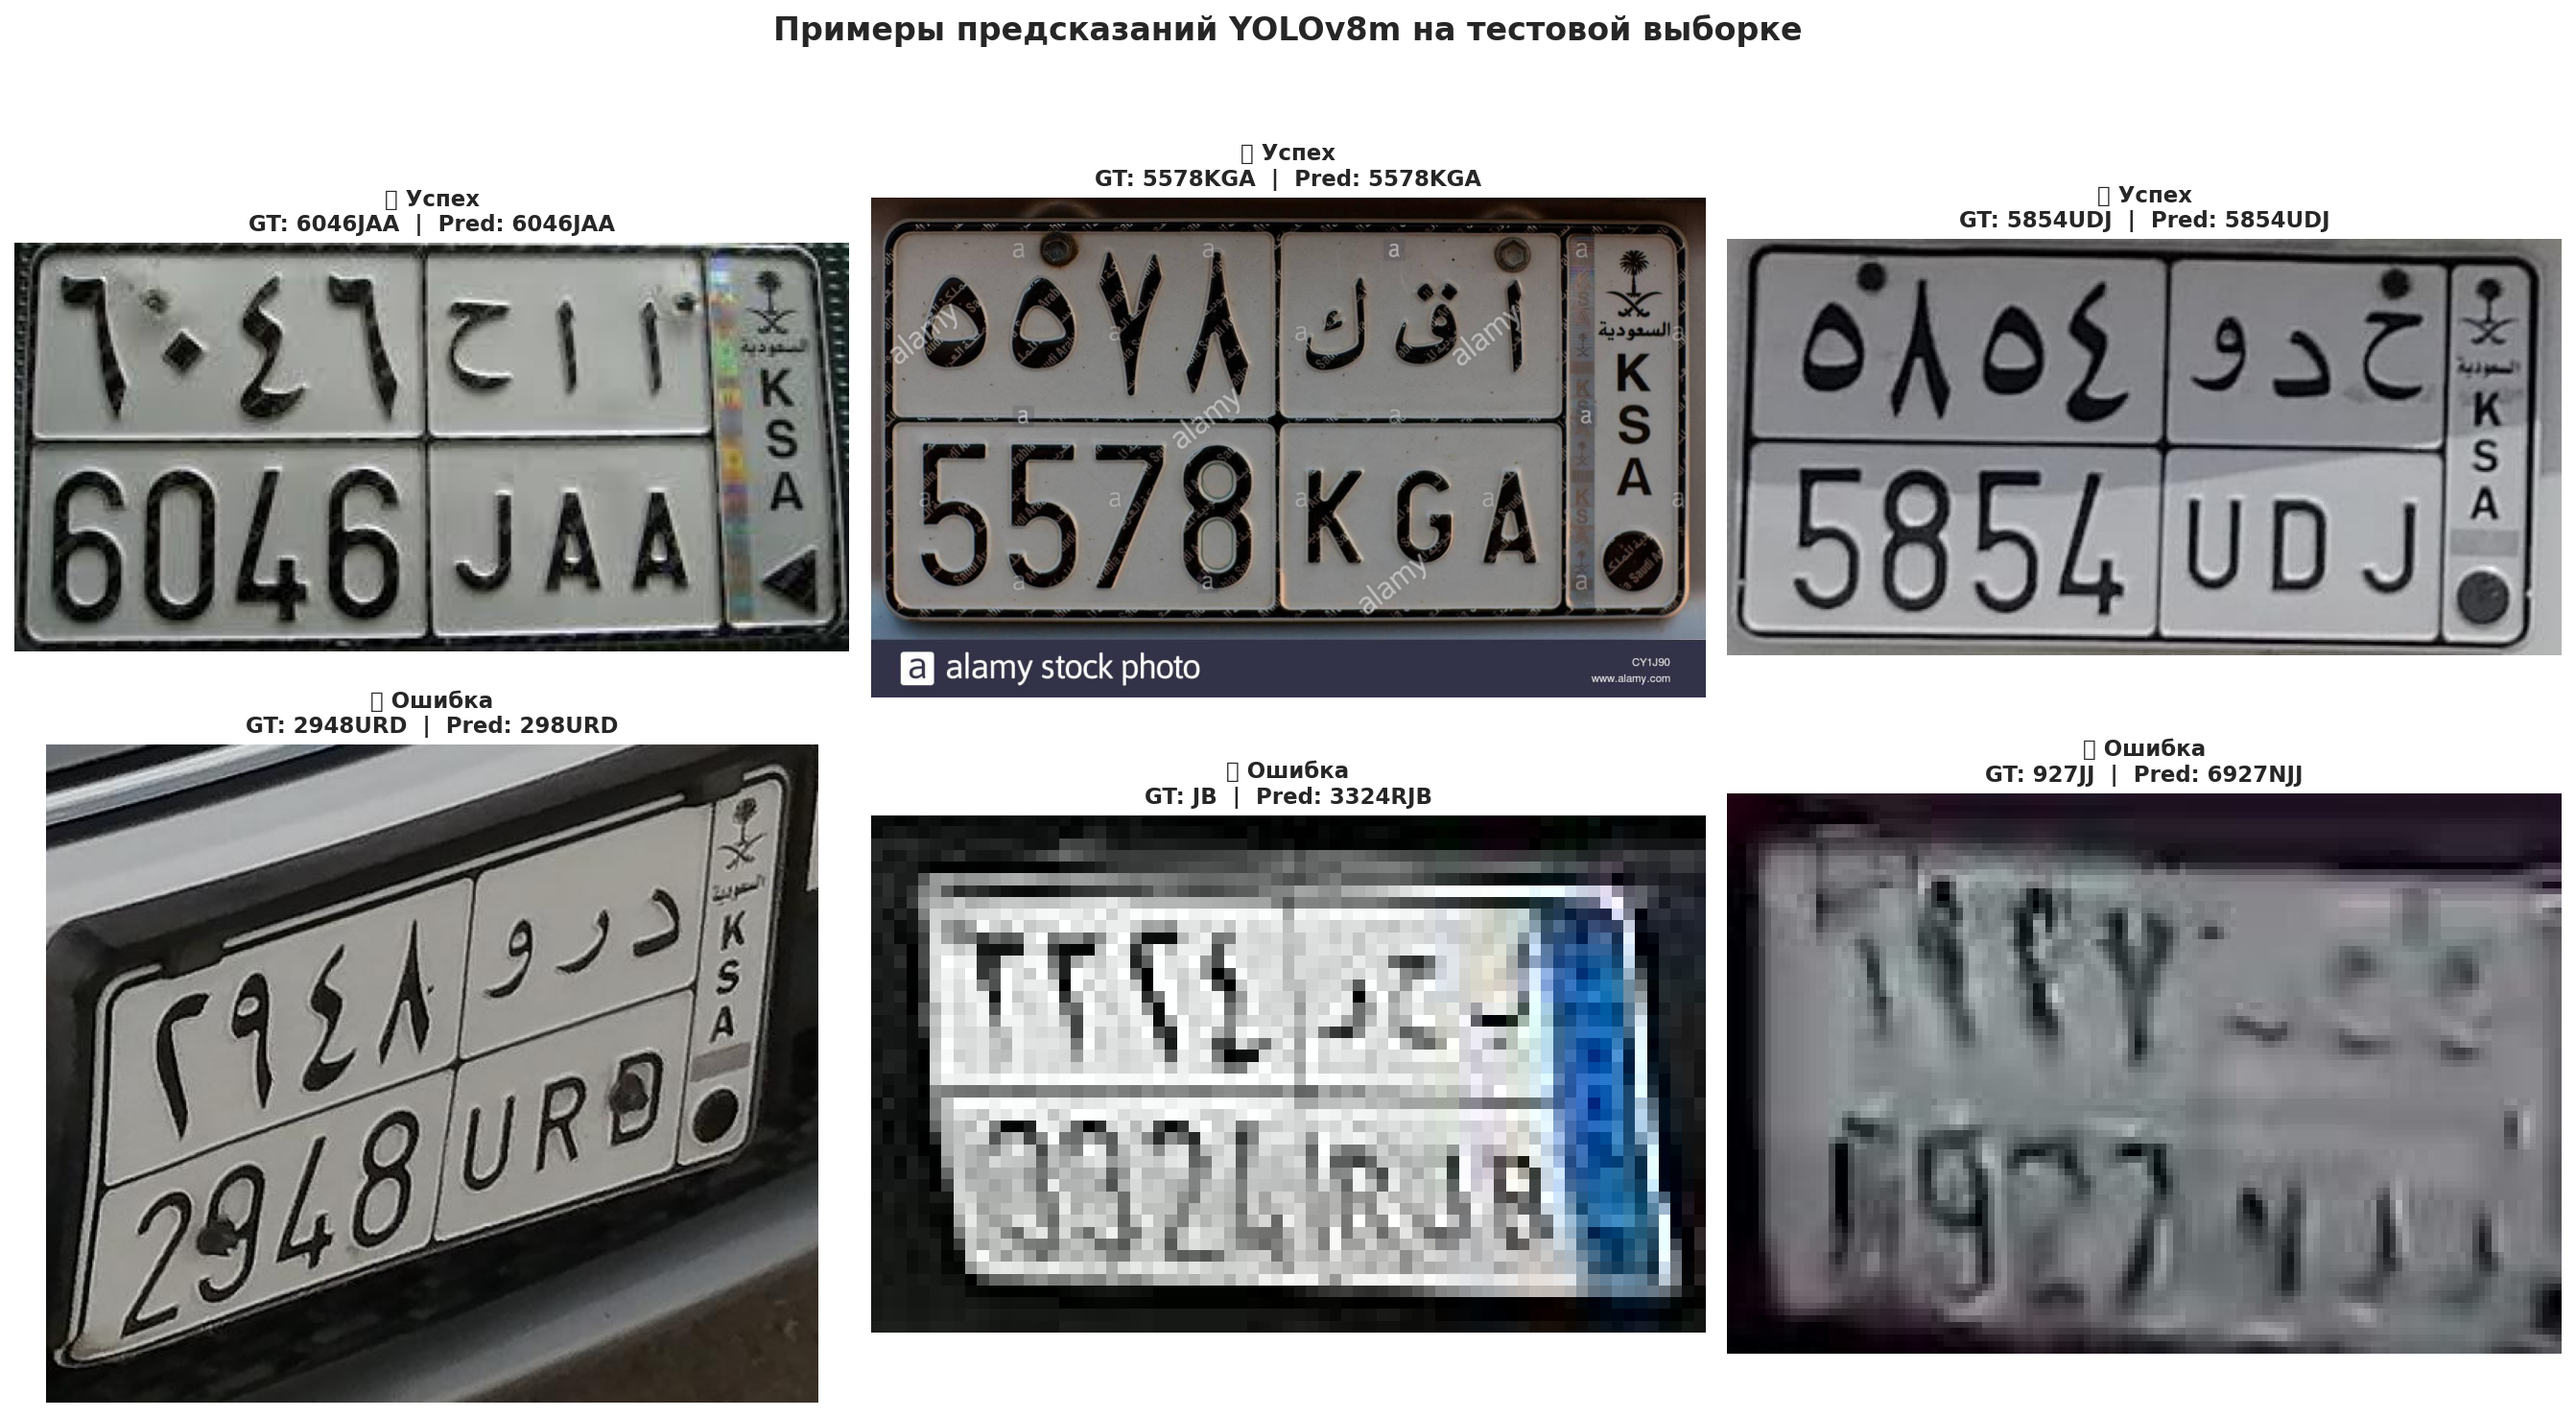
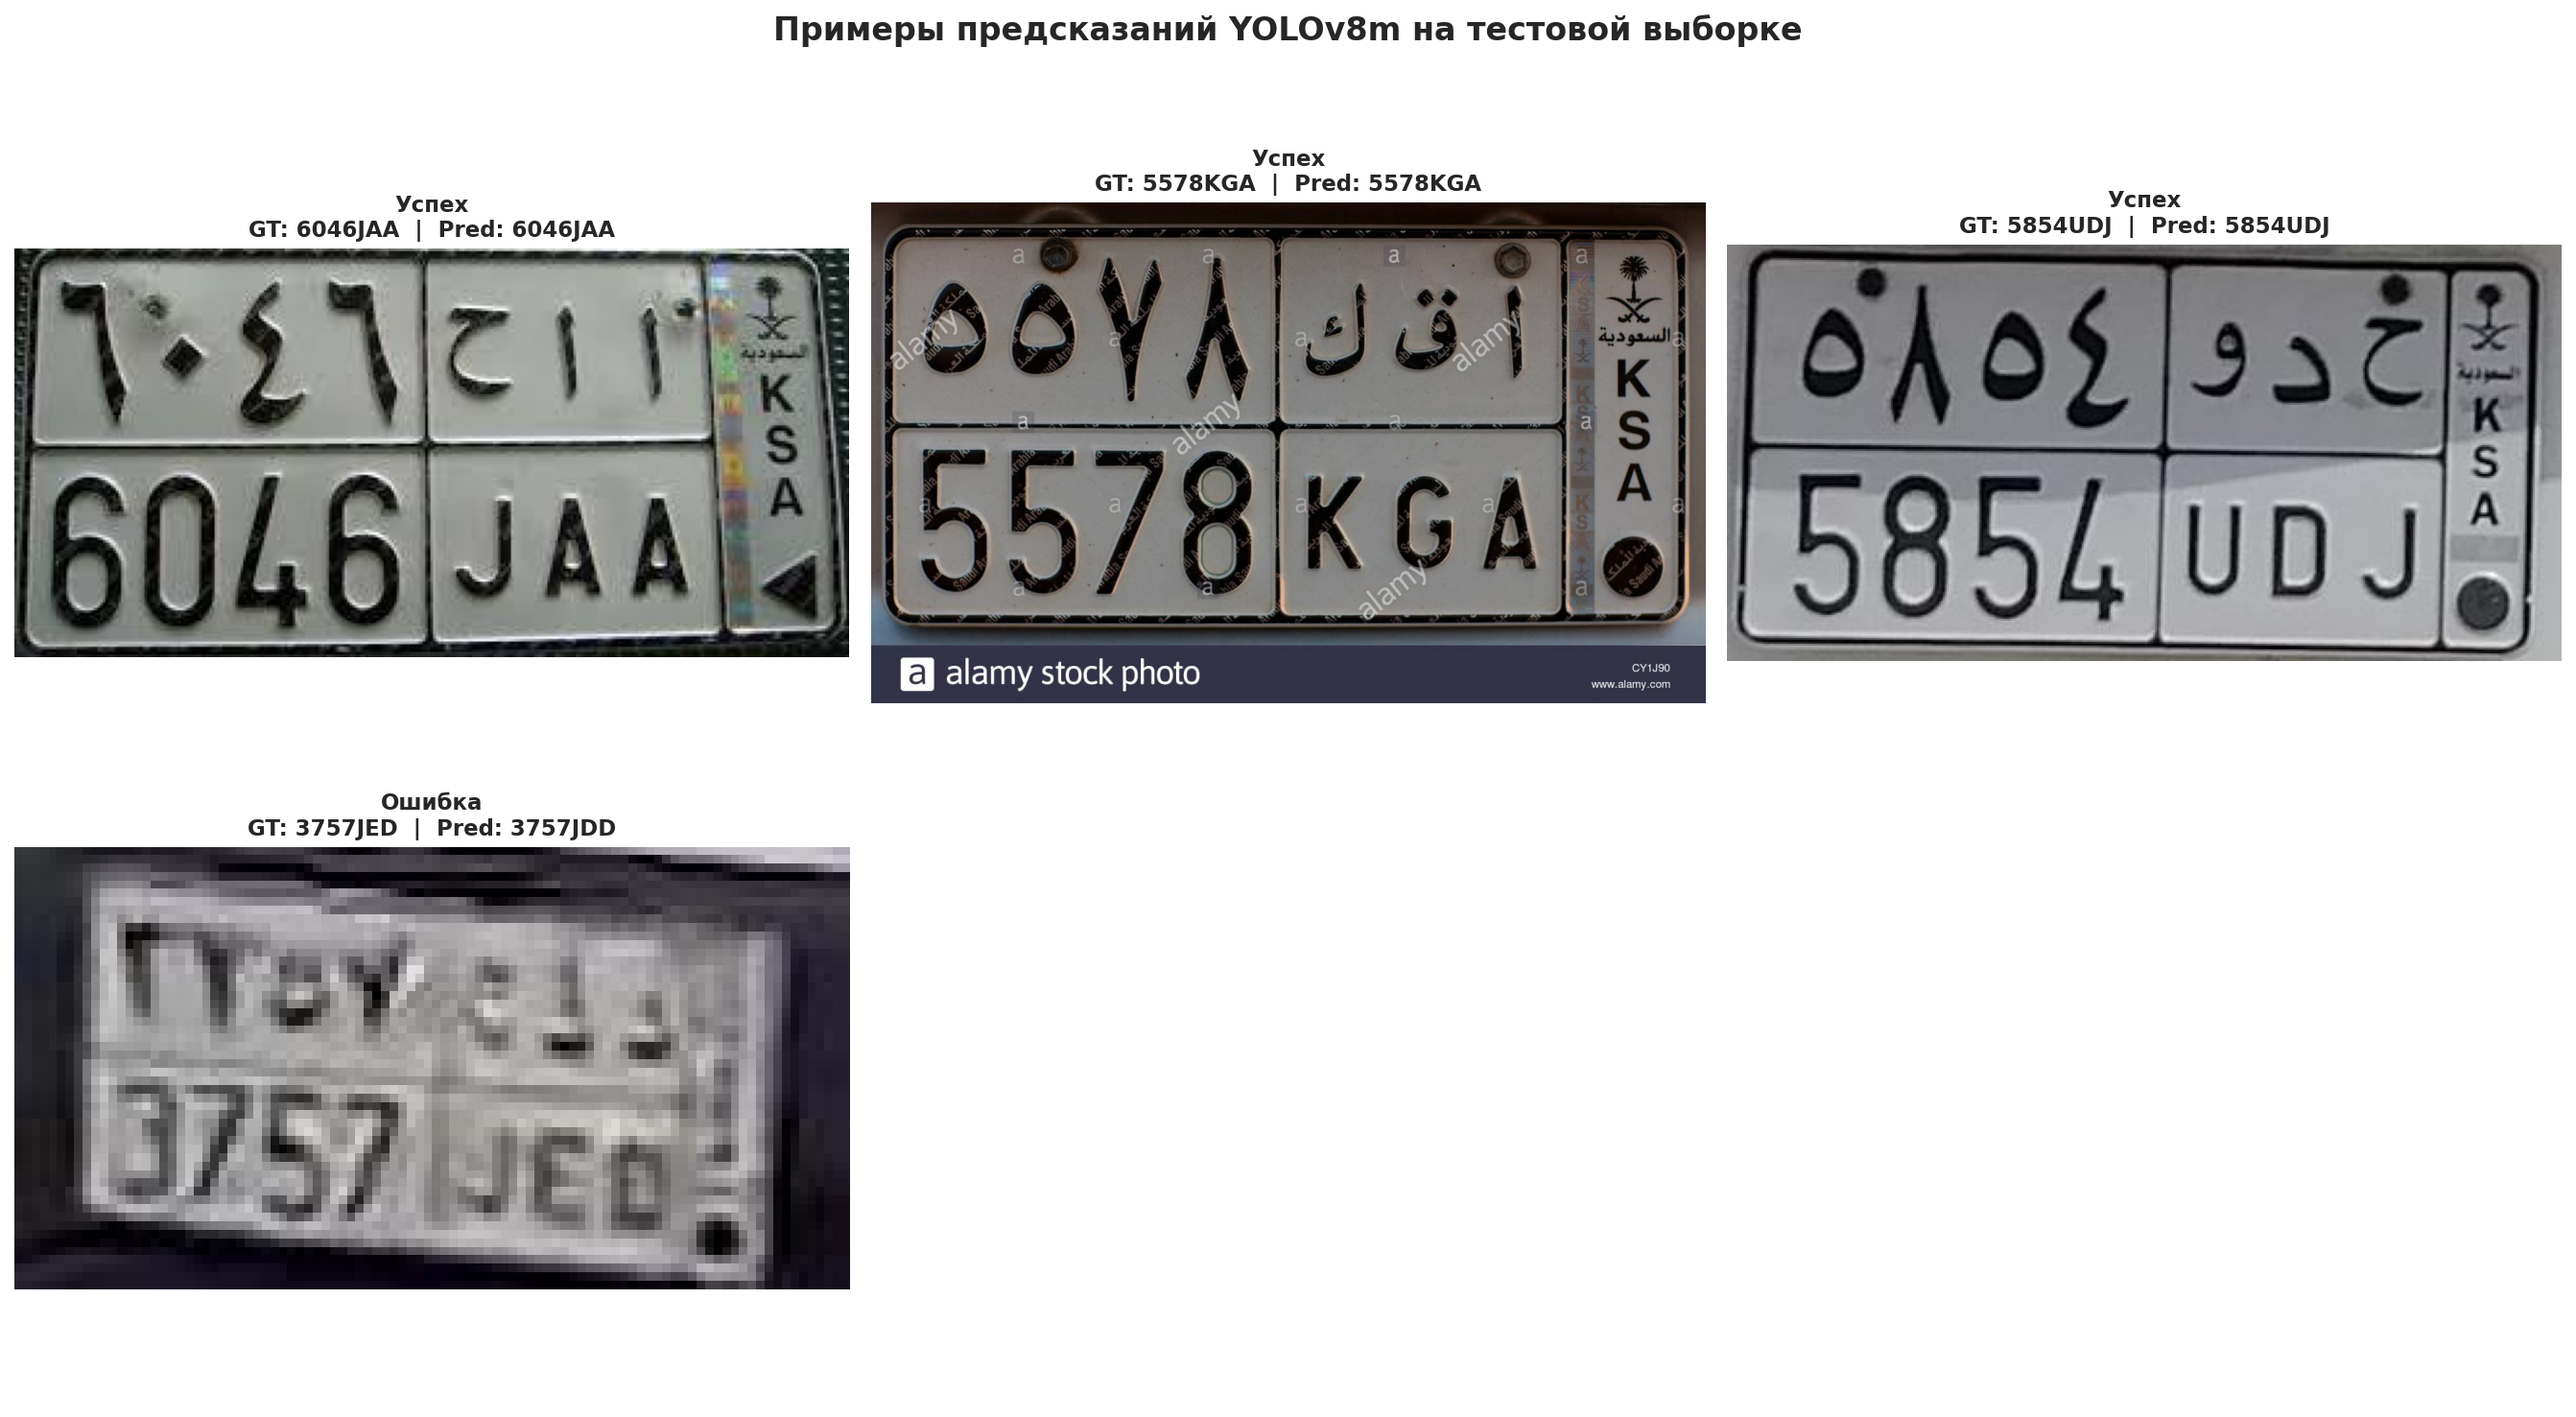
Add YOLOv8m results on the new pipeline to README and REPORT

diff --git a/generate_report.py b/generate_report.py
@@ -27,7 +27,7 @@ print("=" * 60)
 # ============================================================
 # 1. ГРАФИКИ ОБУЧЕНИЯ YOLOv8s (первая модель)
 # ============================================================
-print("\n📈 1/5: Кривые обучения YOLOv8s...")
+print("\n📈 1/4: Кривые обучения YOLOv8s...")
 
 results_path_1 = Path("runs/detect/runs/yolo/plates_detector/results.csv")
 if results_path_1.exists():
@@ -75,7 +75,7 @@ else:
 # ============================================================
 # 2. ГРАФИКИ ОБУЧЕНИЯ YOLOv8m (аугментированные данные)
 # ============================================================
-print("\n📈 2/5: Кривые обучения YOLOv8m на аугментированных данных...")
+print("\n📈 2/4: Кривые обучения YOLOv8m на аугментированных данных...")
 
 results_path_2 = Path("runs/yolo_aug/plates_detector_m/results.csv")
 if results_path_2.exists():
@@ -118,7 +118,7 @@ if results_path_2.exists():
 # ============================================================
 # 3. ГРАФИКИ ОБУЧЕНИЯ FCOS (кастомная архитектура)
 # ============================================================
-print("\n📈 3/5: Кривые обучения FCOS...")
+print("\n📈 3/4: Кривые обучения FCOS...")
 
 fcos_history = Path("weights/history.json")
 if fcos_history.exists():
@@ -145,7 +145,7 @@ else:
 # ============================================================
 # 4. ПРИМЕРЫ ПРЕДСКАЗАНИЙ YOLOv8m (успехи и ошибки)
 # ============================================================
-print("\n🖼  4/5: Примеры предсказаний YOLOv8m...")
+print("\n🖼  4/4: Примеры предсказаний YOLOv8m...")
 
 model = YOLO("runs/yolo_aug/plates_detector_m/weights/best.pt")
 test_dir = Path("yolo_dataset_augmented/images/test")
@@ -166,8 +166,11 @@ for row in rows:
 
 # Рисуем 3 успеха и 3 ошибки
 fig, axes = plt.subplots(2, 3, figsize=(18, 10))
+# Ошибок может быть меньше трёх - пустые ячейки не рисуем
+for ax in axes.flat:
+    ax.axis('off')
 
-for row, examples, title_prefix in [(0, success_examples[:3], "✅ Успех"), (1, fail_examples[:3], "❌ Ошибка")]:
+for row, examples, title_prefix in [(0, success_examples[:3], "Успех"), (1, fail_examples[:3], "Ошибка")]:
     for col, ex in enumerate(examples):
         import matplotlib.image as mpimg
 
@@ -176,56 +179,12 @@ for row, examples, title_prefix in [(0, success_examples[:3], "✅ Успех"),
         axes[row, col].set_title(
             f"{title_prefix}\nGT: {ex['gt']}  |  Pred: {ex['pred']}", fontsize=11, fontweight='bold'
         )
-        axes[row, col].axis('off')
 
 plt.suptitle('Примеры предсказаний YOLOv8m на тестовой выборке', fontsize=16, fontweight='bold', y=0.98)
 plt.tight_layout(rect=[0, 0, 1, 0.96])
 plt.savefig(REPORT_DIR / "06_prediction_examples.png", dpi=150, bbox_inches='tight')
 plt.close()
 print(f"   ✅ Сохранено: {REPORT_DIR / '06_prediction_examples.png'}")
-
-# ============================================================
-# 5. АНАЛИЗ ОШИБОК (ТИПЫ ОШИБОК)
-# ============================================================
-print("\n🔍 5/5: Анализ типов ошибок...")
-
-error_types = {'Пропуск символа': 0, 'Лишний символ (фантом)': 0, 'Подстановка символа': 0, 'Правильно': 0}
-
-for ex in fail_examples:
-    gt, pred = ex['gt'], ex['pred']
-    # Простая эвристика классификации ошибки
-    if len(pred) < len(gt):
-        error_types['Пропуск символа'] += 1
-    elif len(pred) > len(gt):
-        error_types['Лишний символ (фантом)'] += 1
-    else:
-        error_types['Подстановка символа'] += 1
-
-error_types['Правильно'] = len(success_examples)
-
-fig, ax = plt.subplots(figsize=(10, 6))
-colors = ['#27ae60', '#e74c3c', '#f39c12', '#9b59b6']
-wedges, texts, autotexts = ax.pie(
-    error_types.values(),
-    labels=error_types.keys(),
-    autopct='%1.1f%%',
-    colors=colors,
-    startangle=90,
-    textprops={'fontsize': 11},
-)
-for autotext in autotexts:
-    autotext.set_fontweight('bold')
-    autotext.set_color('white')
-
-plt.title(
-    f'Распределение результатов на тестовой выборке ({len(success_examples) + len(fail_examples)} изображений)\n'
-    f'Всего: {len(success_examples)} правильно, {len(fail_examples)} ошибок',
-    fontsize=14,
-    fontweight='bold',
-)
-plt.savefig(REPORT_DIR / "07_error_analysis.png", dpi=150, bbox_inches='tight')
-plt.close()
-print(f"   ✅ Сохранено: {REPORT_DIR / '07_error_analysis.png'}")
 
 # ============================================================
 # ФИНАЛЬНАЯ СВОДКА

diff --git a/README.md b/README.md
@@ -2,7 +2,18 @@
 
 Пайплайн для детекции и распознавания символов саудовских номерных знаков. В ходе исследования была разработана кастомная архитектура FCOS, а как основная модель используется YOLOv8.
 
-**Статус:** пайплайн данных, обучения и оценки исправлен; модели по новому пайплайну ещё не переобучены, поэтому актуальных метрик пока нет.
+## Результаты
+
+YOLOv8m по новому пайплайну (`configs/yolo_train.yaml`, early stopping на 91-й эпохе, лучшая - 66-я), порог уверенности 0.25 подобран на val:
+
+| Выборка | Изображений | Exact Match | 95% ДИ | CER |
+|---|---|---|---|---|
+| val (номеров нет в train) | 94 | 91.5% (86/94) | [84.1%; 95.6%] | 1.8% |
+| test, все | 26 | 96.2% (25/26) | [81.1%; 99.3%] | 0.5% |
+| test, номер есть в train | 20 | 95.0% (19/20) | [76.4%; 99.1%] | 0.7% |
+| test, новый номер | 6 | 100% (6/6) | [61.0%; 100%] | 0.0% |
+
+Цель 80% Exact Match достигнута. Основная оценка - val: в нём больше изображений и ни один номер не встречается в train. FCOS по новому пайплайну не переобучалась. Разбор ошибок - в [REPORT.md](REPORT.md).
 
 Прежние результаты (85% Exact Match у YOLOv8m, ~20% и 65% у FCOS) получены по старому протоколу и недействительны: test был урезан до 20 изображений (PNG не учитывались), в нём были изображения с неполной разметкой, номера test встречаются в train, а порог уверенности подбирался на тесте. Подробности - в [REPORT.md](REPORT.md).
 
@@ -144,7 +155,8 @@ CI (GitHub Actions) запускает линтеры и тесты на Python 
 
 ## Дальнейшее развитие
 
-- Переобучить YOLOv8m и FCOS по новому пайплайну и заполнить результаты.
+- Переобучить FCOS по новому пайплайну и сравнить с YOLOv8m.
+- Учесть в геометрическом фильтре длинные однострочные номера, где буквы крупнее цифр (2 из 8 ошибок на val).
 - Доразметить изображения с неполной разметкой вместо их исключения.
 - Собрать test из номеров, которых нет в train, - сейчас обобщение на новые номера проверяется на 6 изображениях.
 - Двухэтапный пайплайн: YOLO (детекция) + CRNN/SVTR (распознавание символов по кропам) для ошибок типа D↔B или J↔L.
